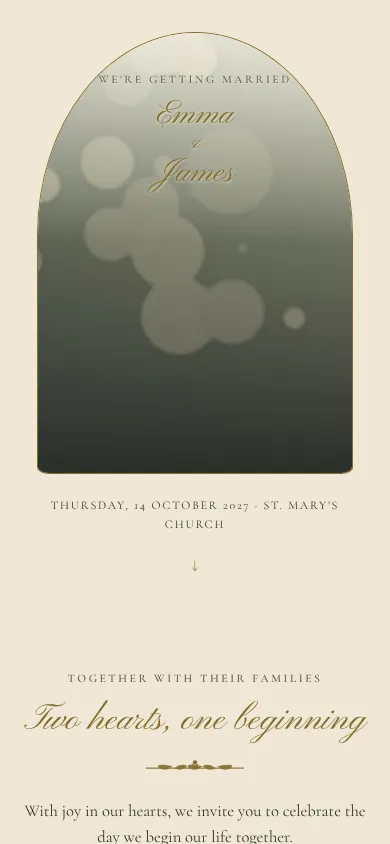
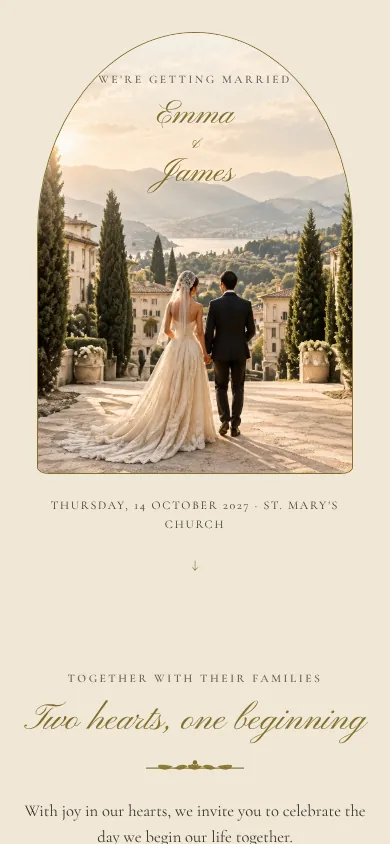
Ship Aurelia's own design photos as its template defaults
Aurelia was built around specific imagery (the lakeside cover, the couple,
the ring, the boat) but a template falls back to the shared stock library,
so 'Use this template' and the gallery preview opened on generic photos
instead of the design we made.

Give the template its own demo media (public/templates/aurelia/*) and point
the sample wedding at it for aurelia-suite only. Now the hero arch and the
gallery show the actual design, and because they are local files they render
identically in production, in the editor's live preview, and in the recorded
gallery still. The preview webp is re-recorded from the real /embed renderer.

Claude-Session: https://claude.ai/code/session_01U7WGSCWKm6rLKHHJsdni57

diff --git a/src/templates/fixtures/sample-wedding.ts b/src/templates/fixtures/sample-wedding.ts
@@ -38,6 +38,49 @@ const photo = (id: LibraryPhotoId, purpose: "hero" | "gallery", sort: number, wi
   sort_order: sort,
 });
 
+/**
+ * A demo photo that ships with the repo (public/…), used when a template is
+ * designed around its own imagery rather than the shared library. publicMediaUrl
+ * returns `/`-rooted paths unchanged, so these resolve on the server and client
+ * and need no network — the preview recorder sees them too.
+ */
+const localPhoto = (
+  path: string,
+  purpose: "hero" | "gallery",
+  sort: number,
+  width: number,
+  height: number,
+  alt: string,
+) => ({ id: `demo-local-${sort}`, kind: "image" as const, purpose, storage_path: path, alt_text: alt, width, height, sort_order: sort });
+
+/**
+ * Per-template demo media. A template built around a specific look (its own
+ * cover and gallery, drawn or shot for it) overrides the shared library so the
+ * preview and the first "use this template" screen show that exact design.
+ */
+function sampleMedia(templateId: string) {
+  if (templateId === "aurelia-suite") {
+    const p = "/templates/aurelia/";
+    return [
+      localPhoto(`${p}hero.jpg`, "hero", 0, 944, 1680, "A couple at golden hour above an Italian lake"),
+      localPhoto(`${p}g-lead.jpg`, "gallery", 1, 944, 756, "A couple walking above the lake"),
+      localPhoto(`${p}g1.jpg`, "gallery", 2, 584, 536, "A couple embracing at golden hour"),
+      localPhoto(`${p}g3.jpg`, "gallery", 3, 568, 612, "Coupe glasses on a wooden boat"),
+      localPhoto(`${p}g-arch.jpg`, "gallery", 4, 540, 544, "A couple beneath a garden arch"),
+      localPhoto(`${p}g2.jpg`, "gallery", 5, 568, 628, "A ring resting on ivory silk"),
+    ];
+  }
+  return [
+    photo("couple", "hero", 0, 2400, 1600),
+    photo("outdoors", "gallery", 1, 1600, 2400),
+    photo("rings", "gallery", 2, 2400, 1600),
+    photo("bouquet", "gallery", 3, 2400, 1600),
+    photo("celebration", "gallery", 4, 1600, 2400),
+    photo("reception", "gallery", 5, 2400, 1600),
+    photo("venue", "gallery", 6, 2400, 1600),
+  ];
+}
+
 /** London is UTC+1 in mid-October (BST), so 15:00 local = 14:00Z. */
 function londonIso(date: string, time: string) {
   const [h, m] = time.split(":").map(Number);
@@ -136,15 +179,7 @@ export function sampleBundle(templateId: string, now: Date = new Date()): Weddin
         sort_order: 1,
       },
     ],
-    media: [
-      photo("couple", "hero", 0, 2400, 1600),
-      photo("outdoors", "gallery", 1, 1600, 2400),
-      photo("rings", "gallery", 2, 2400, 1600),
-      photo("bouquet", "gallery", 3, 2400, 1600),
-      photo("celebration", "gallery", 4, 1600, 2400),
-      photo("reception", "gallery", 5, 2400, 1600),
-      photo("venue", "gallery", 6, 2400, 1600),
-    ],
+    media: sampleMedia(templateId),
   };
 }
 
